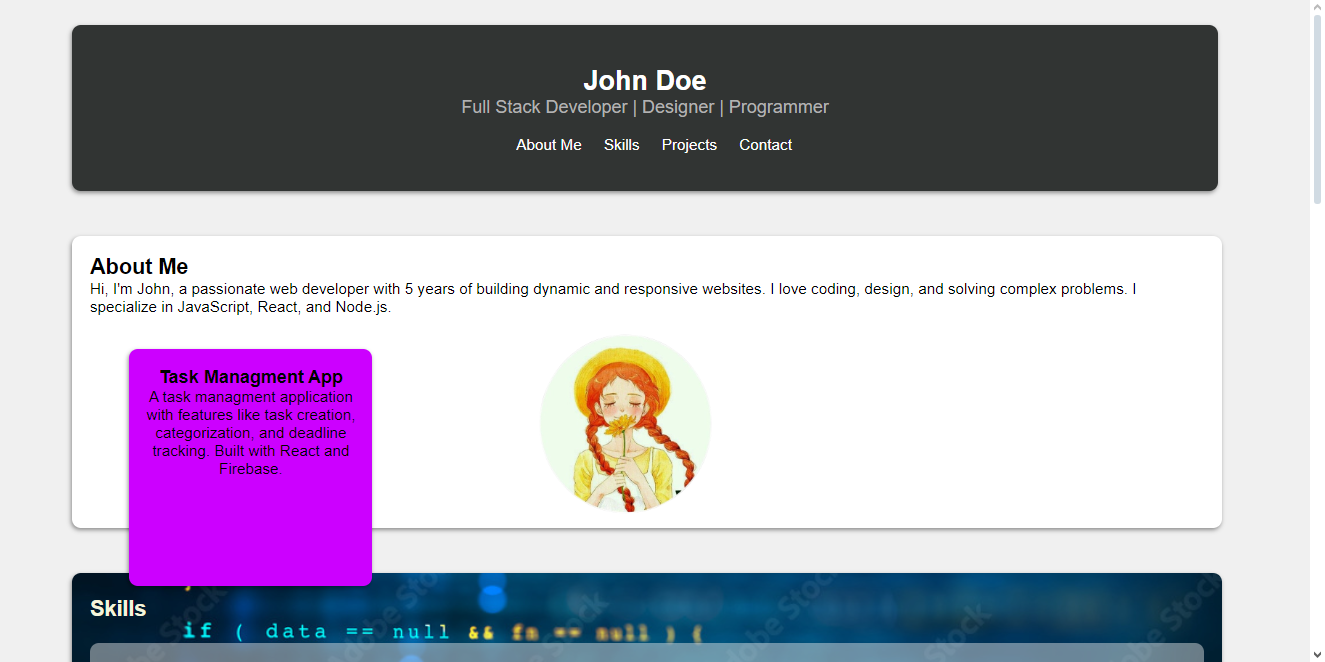
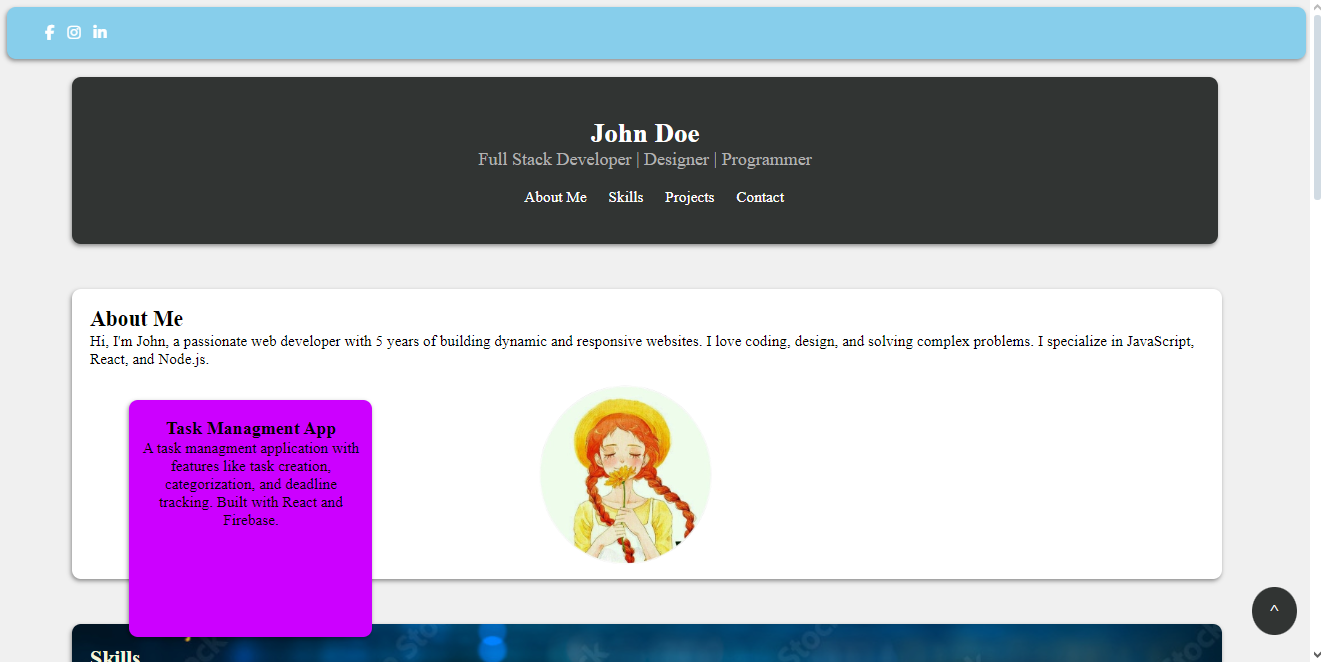
last commit with screenshots

diff --git a/style.css b/style.css
@@ -1,6 +1,7 @@
 body {
   background-color: #f0f0f0;
   position: relative;
+  font-family: "Times New Roman", Times, serif;
 }
 
 a {
@@ -8,6 +9,22 @@ a {
 }
 
 /*------------------------------------------- Header -------------------------------------------*/
+
+.sticky {
+  position: sticky;
+  top: 0;
+  width: 100%;
+  background-color: skyblue;
+  padding: 2px;
+  color: white;
+  border-radius: 10px;
+  z-index: 1;
+  box-shadow: -1px 2px 5px 0px rgba(0, 0, 0, 0.418);
+}
+
+.sticky a {
+  margin-right: 10px;
+}
 
 header {
   position: relative;
@@ -75,6 +92,7 @@ nav ul a:hover {
 }
 
 .skillsContainer {
+  position: static;
   background-color: #f0f0f071;
   border-radius: 10px;
   padding: 20px;
@@ -90,11 +108,11 @@ nav ul a:hover {
   margin-right: 10px;
   margin-top: 10px;
   cursor: pointer;
-  transition: all 0.4s ease-in-out;
 }
 
 .skill:hover {
-  transform: translateY(-10px);
+  position: relative;
+  top: -5px;
 }
 
 /*------------------------------------------- Projects -------------------------------------------*/
@@ -160,13 +178,12 @@ nav ul a:hover {
 .contactSec input,
 textarea {
   display: block;
-  width: 100%;
+  width: 97%;
   border-radius: 10px;
   height: 20px;
   padding: 10px;
   margin-left: 10px;
   margin-bottom: 10px;
-  background-color: transparent !important;
   border: 1px solid #ccc;
 }
 
@@ -186,7 +203,9 @@ textarea {
 
 .contactSec input:focus,
 .contactSec textarea:focus {
-  border: none;
+  background-color: pink;
+  color: palevioletred;
+  font-family: "Segoe UI", Tahoma, Geneva, Verdana, sans-serif;
 }
 
 .contactSec button {
@@ -205,11 +224,21 @@ textarea {
   color: white;
 }
 
+.contactSec button:focus {
+  background-color: blue;
+}
+
+.contactSec button:active {
+  box-shadow: -1px 2px 5px 0px rgba(0, 0, 0, 0.418);
+  color: palevioletred;
+  background-color: pink;
+}
+
 /*------------------------------------------- Footer -------------------------------------------*/
 
 footer {
-  position: sticky;
-  left: 5.5%;
+  position: relative;
+  left: 5%;
   width: 88%;
   background-color: #313433;
   color: white;
@@ -232,9 +261,9 @@ footer a:hover {
 }
 
 #backToTop {
-  position: absolute;
-  bottom: 5px;
-  right: 20px;
+  position: fixed;
+  bottom: 30px;
+  right: 15px;
   background-color: #313433;
   color: white;
   border-radius: 50%;

diff --git a/index.html b/index.html
@@ -3,10 +3,24 @@
   <head>
     <meta charset="UTF-8" />
     <meta name="viewport" content="width=device-width, initial-scale=1.0" />
-    <title>Document</title>
+    <title>Portfolio</title>
     <link rel="stylesheet" href="style.css" />
+    <link
+      rel="stylesheet"
+      href="https://cdnjs.cloudflare.com/ajax/libs/font-awesome/6.6.0/css/all.min.css"
+      integrity="sha512-Kc323vGBEqzTmouAECnVceyQqyqdsSiqLQISBL29aUW4U/M7pSPA/gEUZQqv1cwx4OnYxTxve5UMg5GT6L4JJg=="
+      crossorigin="anonymous"
+      referrerpolicy="no-referrer"
+    />
   </head>
   <body>
+    <div class="sticky">
+      <ul>
+        <a><i class="fa-brands fa-facebook-f"></i></a>
+        <a><i class="fa-brands fa-instagram"></i></a>
+        <a><i class="fa-brands fa-linkedin-in"></i></a>
+      </ul>
+    </div>
     <!--start of header-->
     <header>
       <p style="color: #b2b2b2; font-size: 20px">
@@ -130,8 +144,8 @@
     <footer>
       <p>
         &copy; 2024 John Doe |
-        <a href="https://www.linkedin.com/in/john-doe/">GitHub</a>
-        | <a href="https://www.linkedin.com/in/john-doe/">linkedin</a>
+        <a href="https://github.com/SadeenHawash/Exercise3">GitHub</a>
+        | <a href="#">linkedIn</a>
       </p>
     </footer>
     <a href="#" id="backToTop">^</a>
